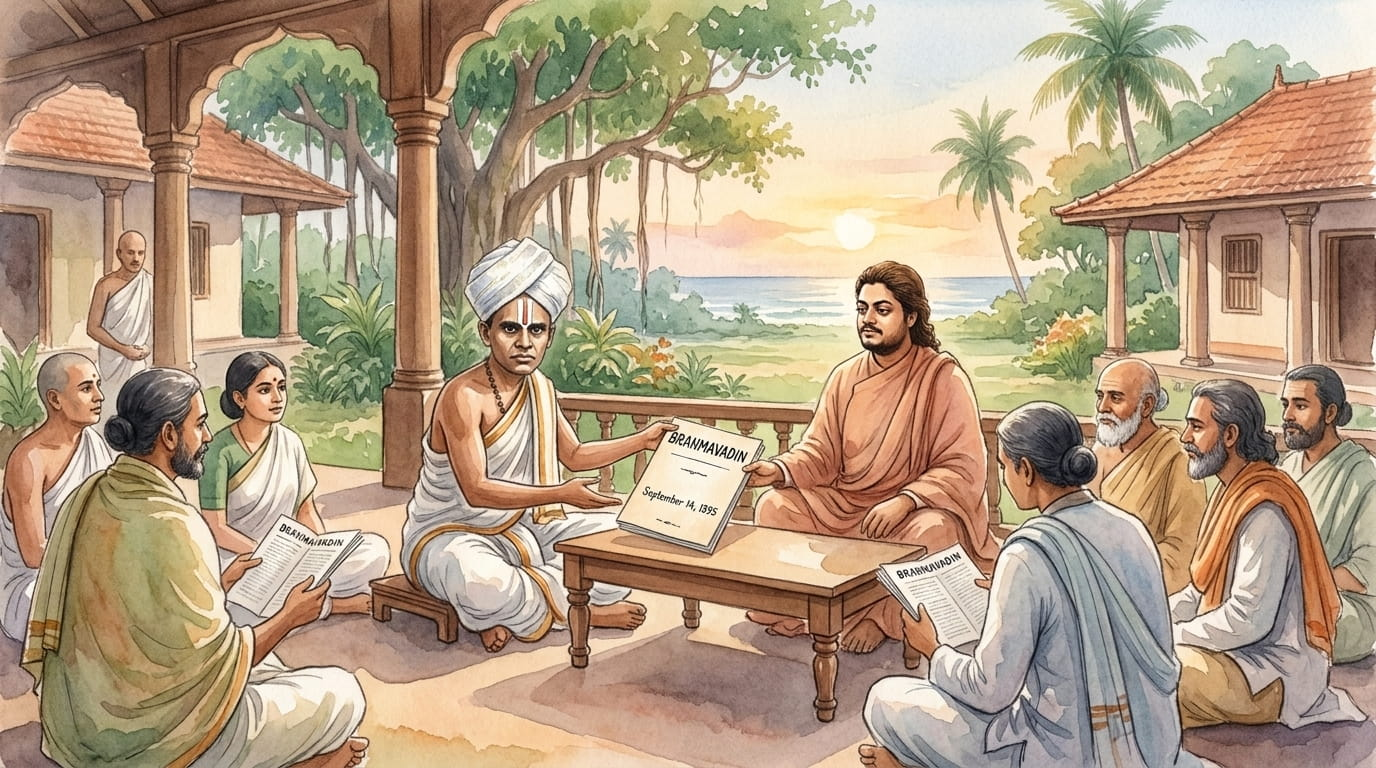
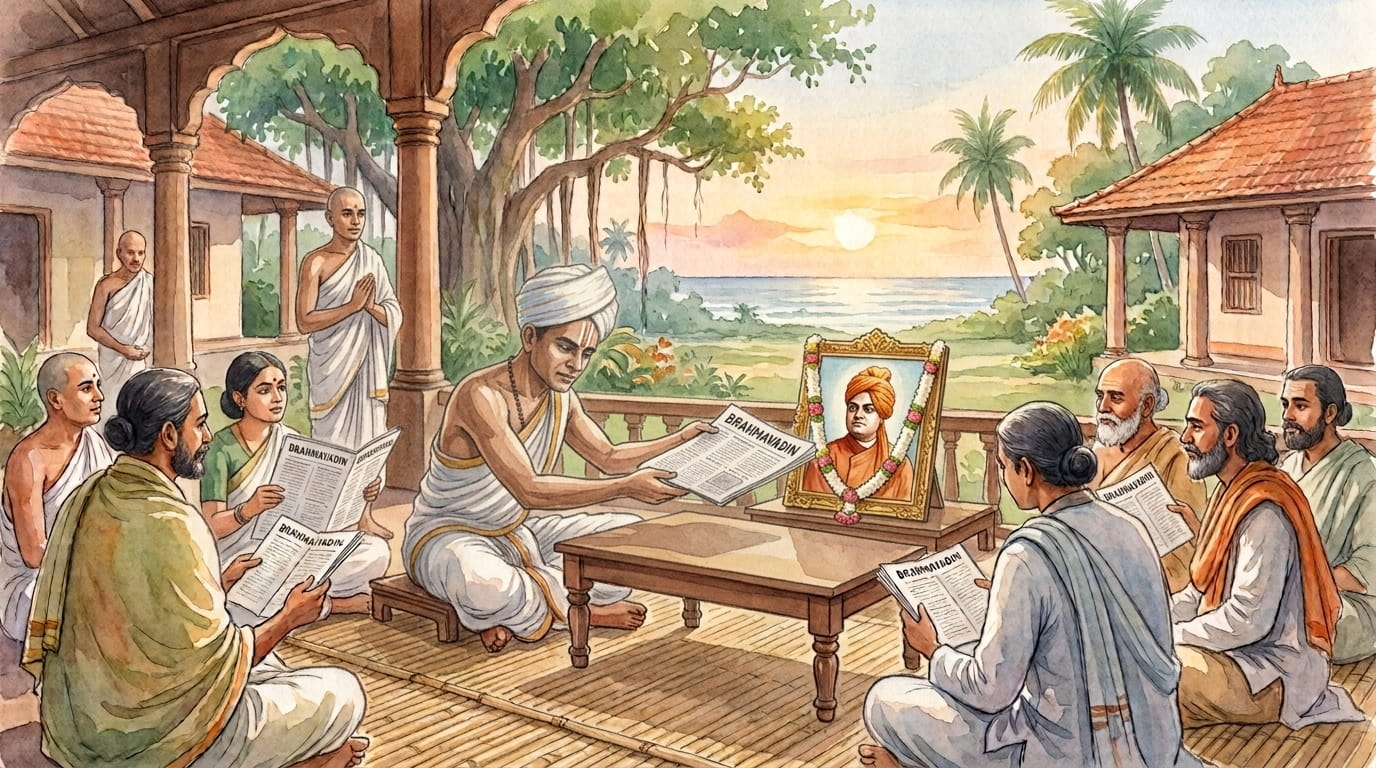
Update September 14 On This Day image to the new Brahmavadin picture.

diff --git a/src/data/historyData.ts b/src/data/historyData.ts
@@ -1441,8 +1441,8 @@ export const PRELOADED_EVENTS: OnThisDayEvent[] = [
     narrativeParagraph2: "The journal was devoted principally to Vedanta and the spiritual and philosophical heritage of India, and Swamiji himself contributed to and strongly supported it. Brahmavadin continued until 1914, when its legacy was carried forward by **The Vedanta Kesari**, the English monthly published by Sri Ramakrishna Math, Chennai.",
     quote: "The Brahmavadin is a jewel — it must not perish.",
     quoteAuthor: "Swami Vivekananda",
-    imageCaption: "Alasinga Perumal presenting the first issue of Brahmavadin in Madras on 14 September 1895, inspired and guided by Swami Vivekananda.",
-    customImage: "/images/on-this-day/14thSeptember.jpg"
+    imageCaption: "Alasinga Perumal presenting the first issue of Brahmavadin in Madras on 14 September 1895, before a garlanded portrait of Swami Vivekananda.",
+    customImage: "/images/on-this-day/14thSeptember.jpg?v=2"
   },
   {
     date: "January 1",
